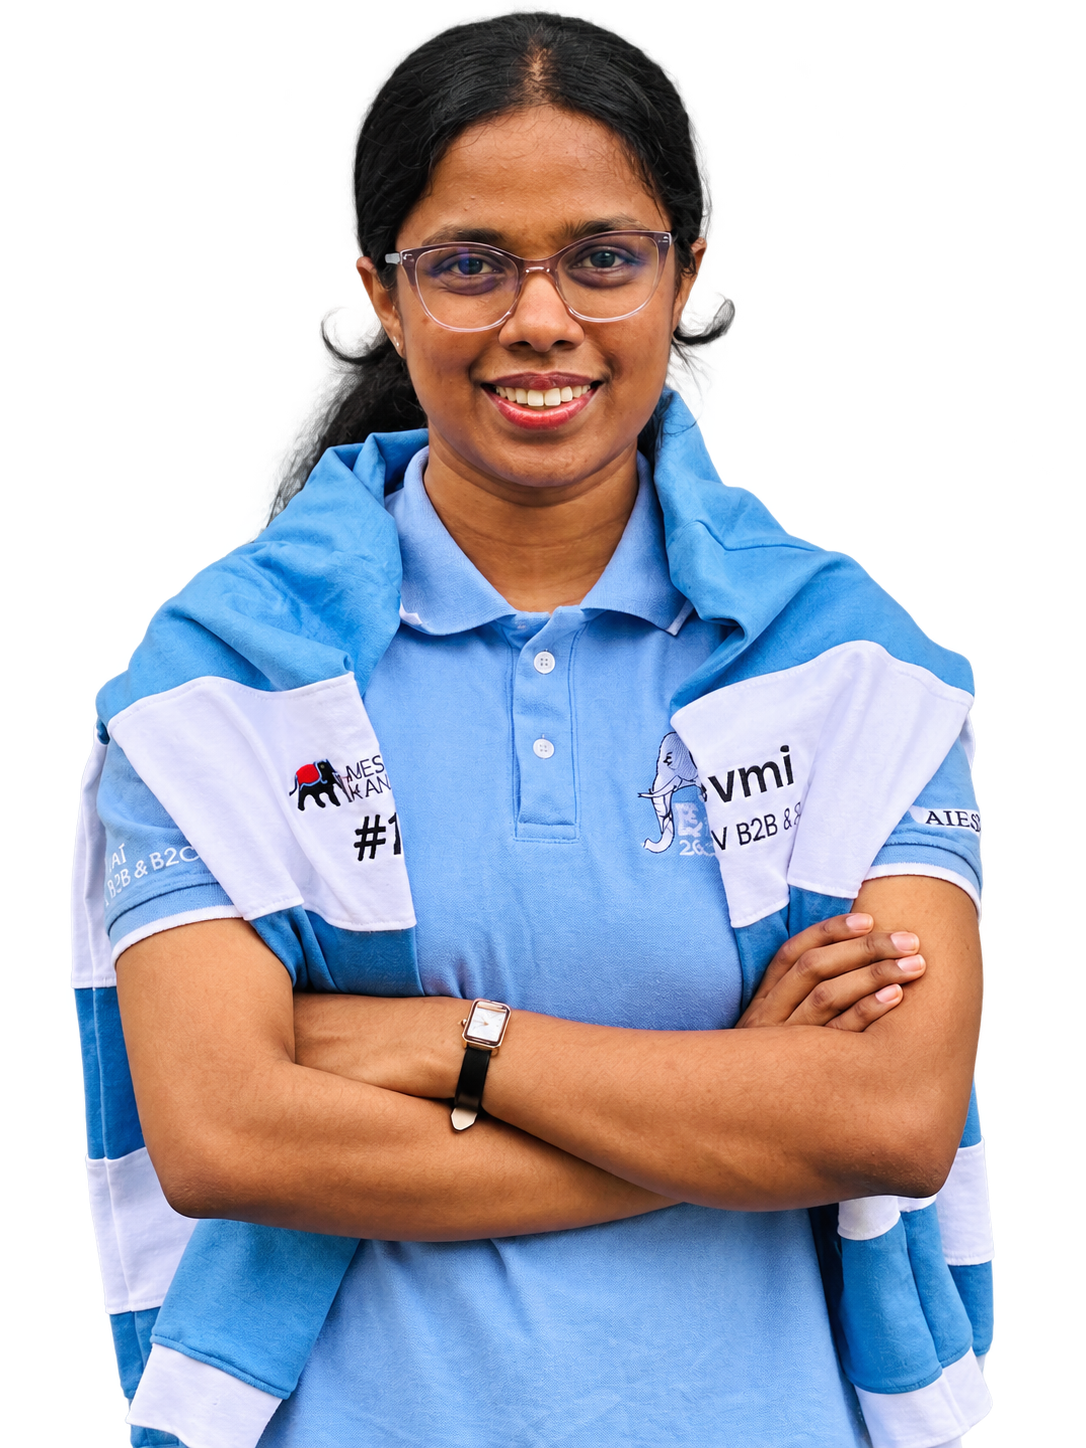
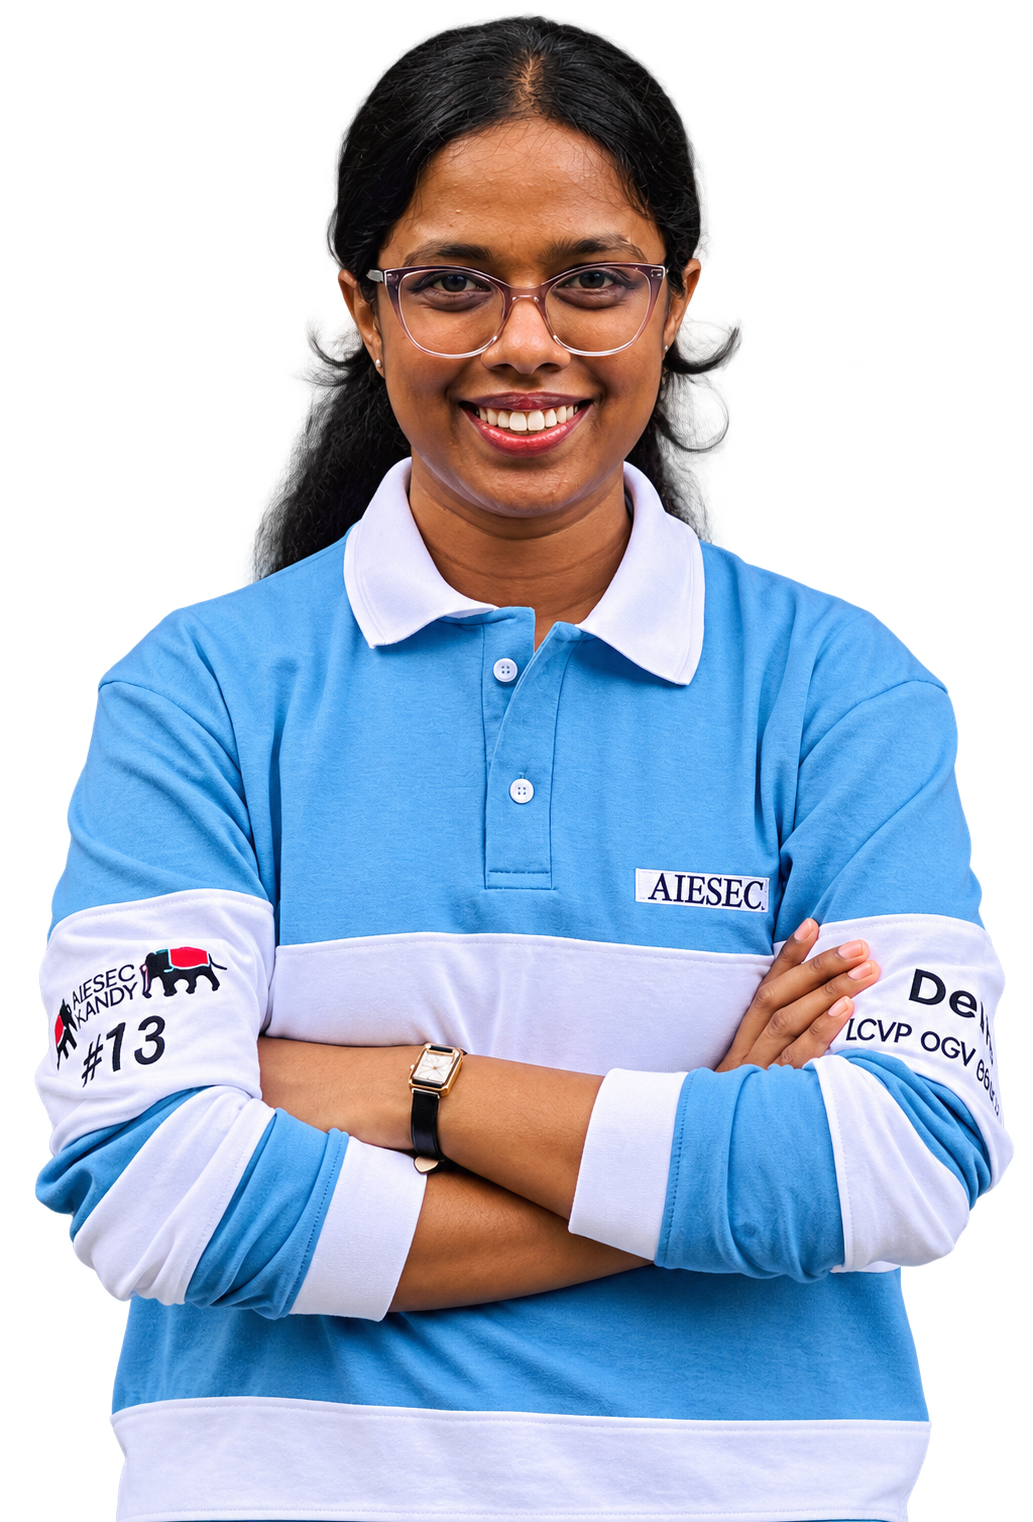
photo update

diff --git a/docs/conference-team.md b/docs/conference-team.md
@@ -19,9 +19,9 @@ These assignments were supplied by the user; duplicate shots were omitted.
 | Harindu | IMG_9198.JPG |
 | Shahla | IMG_9223.JPG |
 | Inuri | IMG_9234.JPG |
-| Devmi | IMG_9258.JPG |
-| Jayani | IMG_9267.JPG |
-| Sayuni | IMG_9280.JPG |
+| Devmi | IMG_9239.JPG |
+| Jayani | IMG_9242.JPG |
+| Sayuni | IMG_9254.JPG |
 | Zahra | IMG_9399.JPG |
 | Yethmini | IMG_9406.JPG |
 
